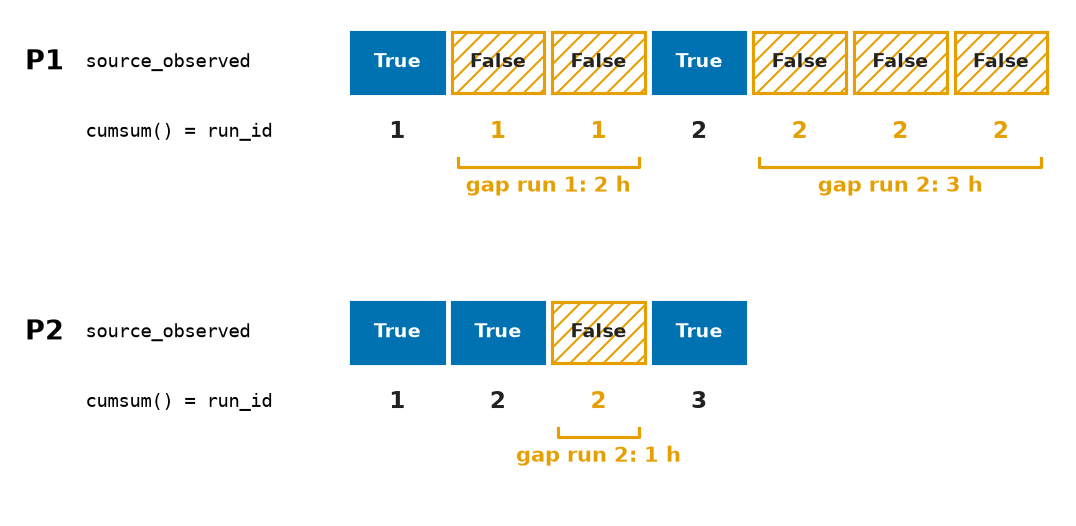
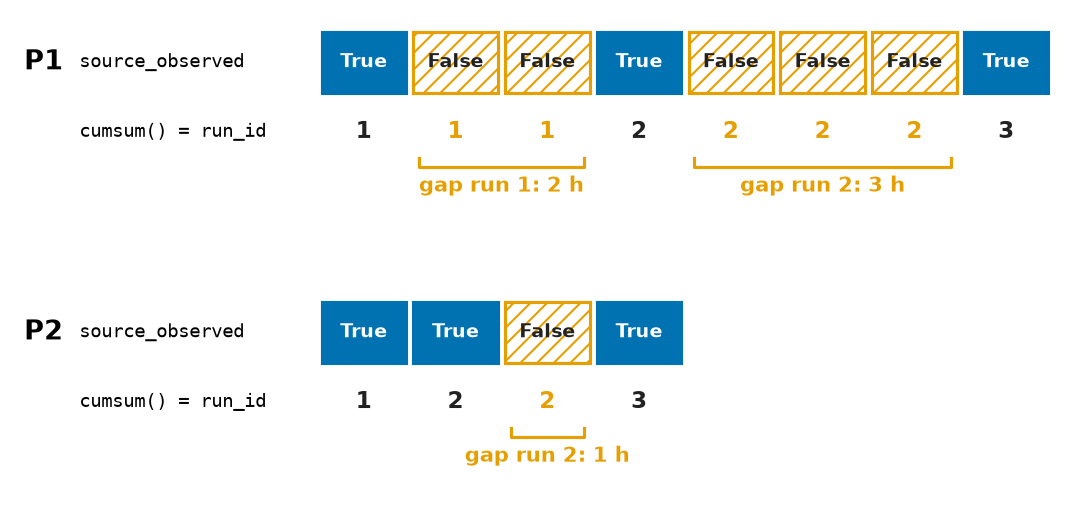
fix: use taught methods in Demo 3 step 2, end the gap-run grid on a reading, gloss UTC at first use

diff --git a/09/scripts/generate_lecture_figures.py b/09/scripts/generate_lecture_figures.py
@@ -604,8 +604,8 @@ def per_patient_bins():
 def gap_run_tiles():
     """Gap Runs: each patient's observed hours, the running count, and the gap runs it numbers."""
     hours = pd.DataFrame({
-        "patient_id": ["P1"] * 7 + ["P2"] * 4,
-        "source_observed": [True, False, False, True, False, False, False, True, True, False, True],
+        "patient_id": ["P1"] * 8 + ["P2"] * 4,
+        "source_observed": [True, False, False, True, False, False, False, True, True, True, False, True],
     })
     hours["run_id"] = hours.groupby("patient_id")["source_observed"].cumsum()
     runs = hours[~hours["source_observed"]].groupby(["patient_id", "run_id"]).size()
@@ -636,7 +636,7 @@ def gap_run_tiles():
                     color=ORANGE, lw=1.5)
             ax.text((left + right) / 2, top - 0.95, f"gap run {run_id}: {size} h", ha="center", va="top",
                     color=ORANGE, fontweight="bold")
-    ax.set_xlim(-0.1, x0 + 7 * w + 0.1)
+    ax.set_xlim(-0.1, x0 + 8 * w + 0.1)
     ax.set_ylim(-0.2, 5.5)
     save(fig, "gap_run_tiles.png")
 

diff --git a/09/README.md b/09/README.md
@@ -61,7 +61,7 @@ curl -fsSL https://raw.githubusercontent.com/christopherseaman/datasci_217/main/
 
 _Some time series are as regular as a Swiss watch; others are as unpredictable as a toddler's nap schedule._
 
-![Regular: an hourly monitor on January 5, 2024, with 14 of 24 readings and no rows 08:00 to 17:00. Irregular: one patient charted at 02:00, 03:30, 04:30, 08:00, and 09:00 UTC on November 3, 1 to 3.5 hours apart.](media/regular_irregular.png)
+![Regular: an hourly monitor on January 5, 2024, with 14 of 24 readings and no rows 08:00 to 17:00. Irregular: one patient charted at 02:00, 03:30, 04:30, 08:00, and 09:00 UTC (the worldwide reference clock) on November 3, 1 to 3.5 hours apart.](media/regular_irregular.png)
 
 ## Single Series and Panels
 

diff --git a/09/demo/demo3_deterioration_cohort.md b/09/demo/demo3_deterioration_cohort.md
@@ -121,7 +121,9 @@ Plot the wall clock against UTC. The dotted lines show daylight time (UTC minus 
 ```python
 import matplotlib.dates as mdates
 
-night = night.assign(wall_clock=pd.to_datetime(night['recorded_local'])).sort_values('wall_clock')
+night = night.copy()
+night['wall_clock'] = pd.to_datetime(night['recorded_local'])
+night = night.sort_values('wall_clock')
 kept = night.dropna(subset=['recorded_at'])
 unsure = night[night['recorded_at'].isna()]
 hours_utc = pd.date_range('2024-11-03 05:00', '2024-11-03 10:00', freq='h', tz='UTC')
